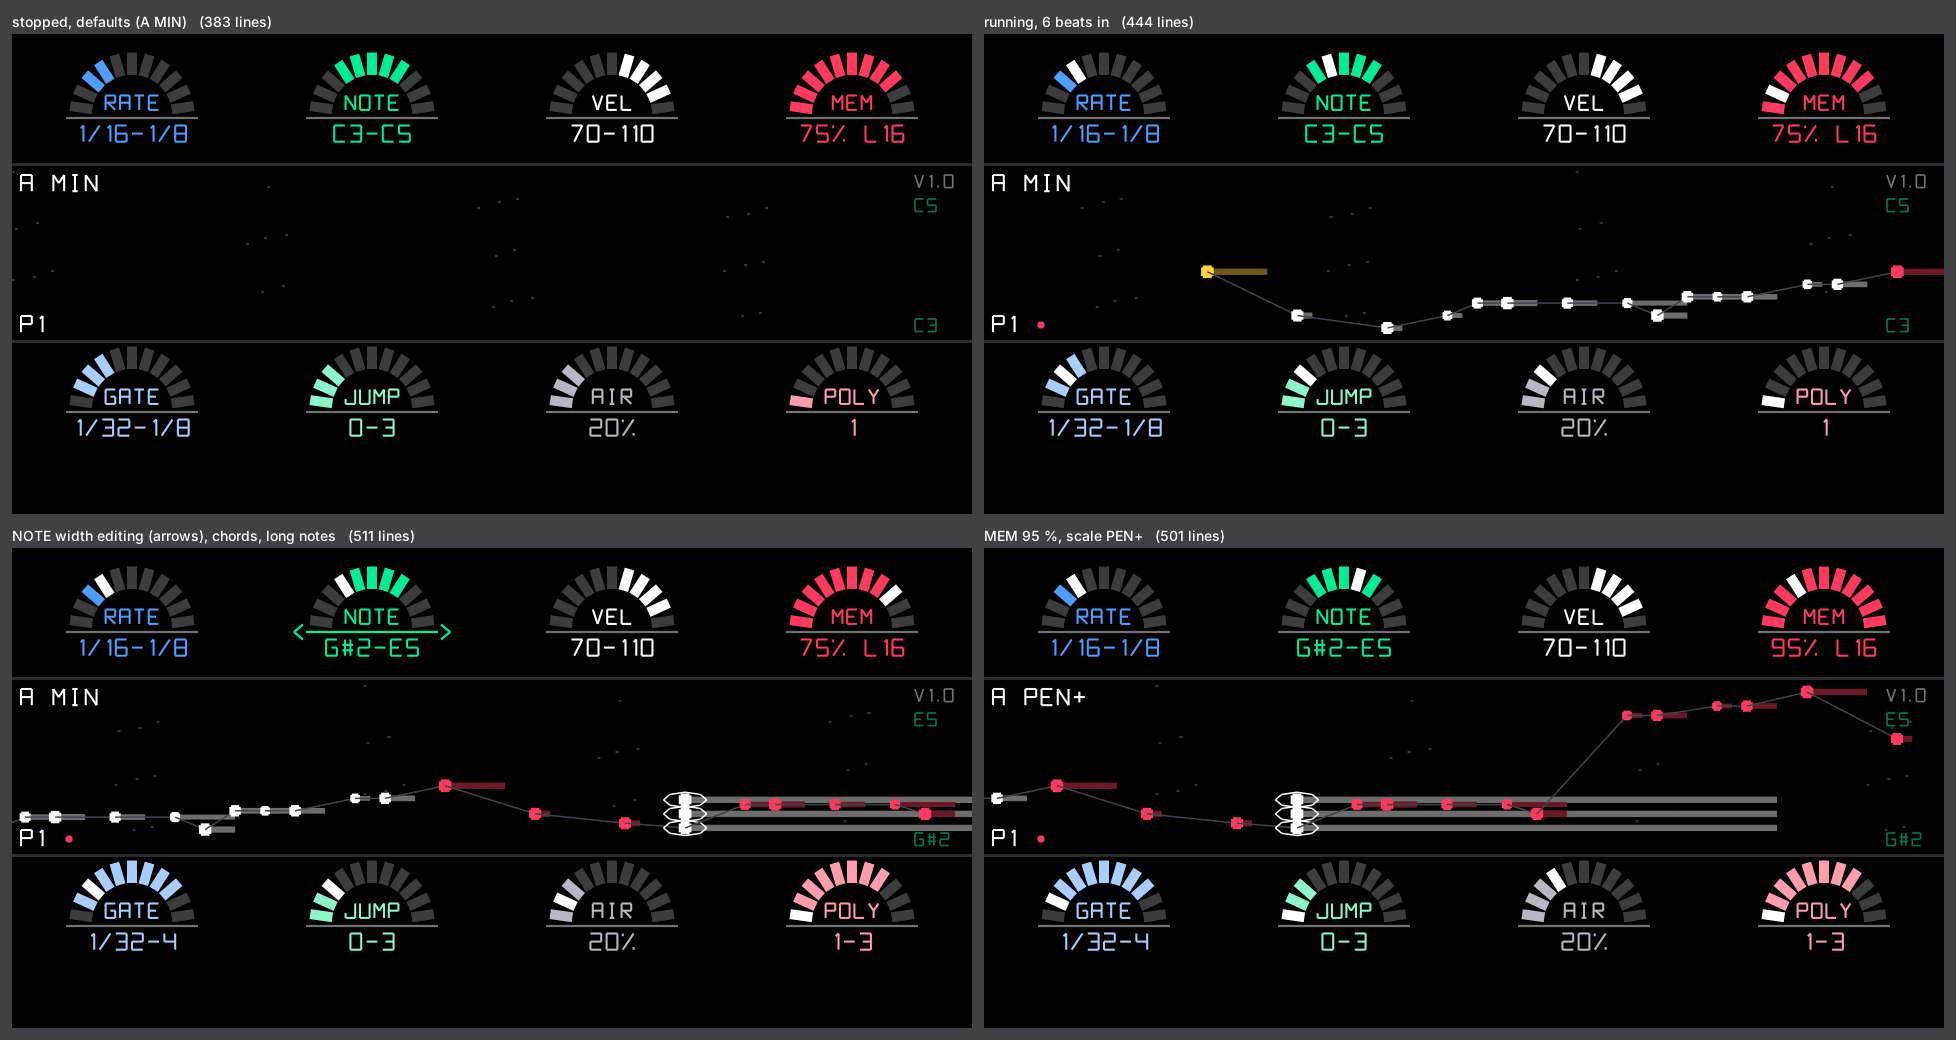
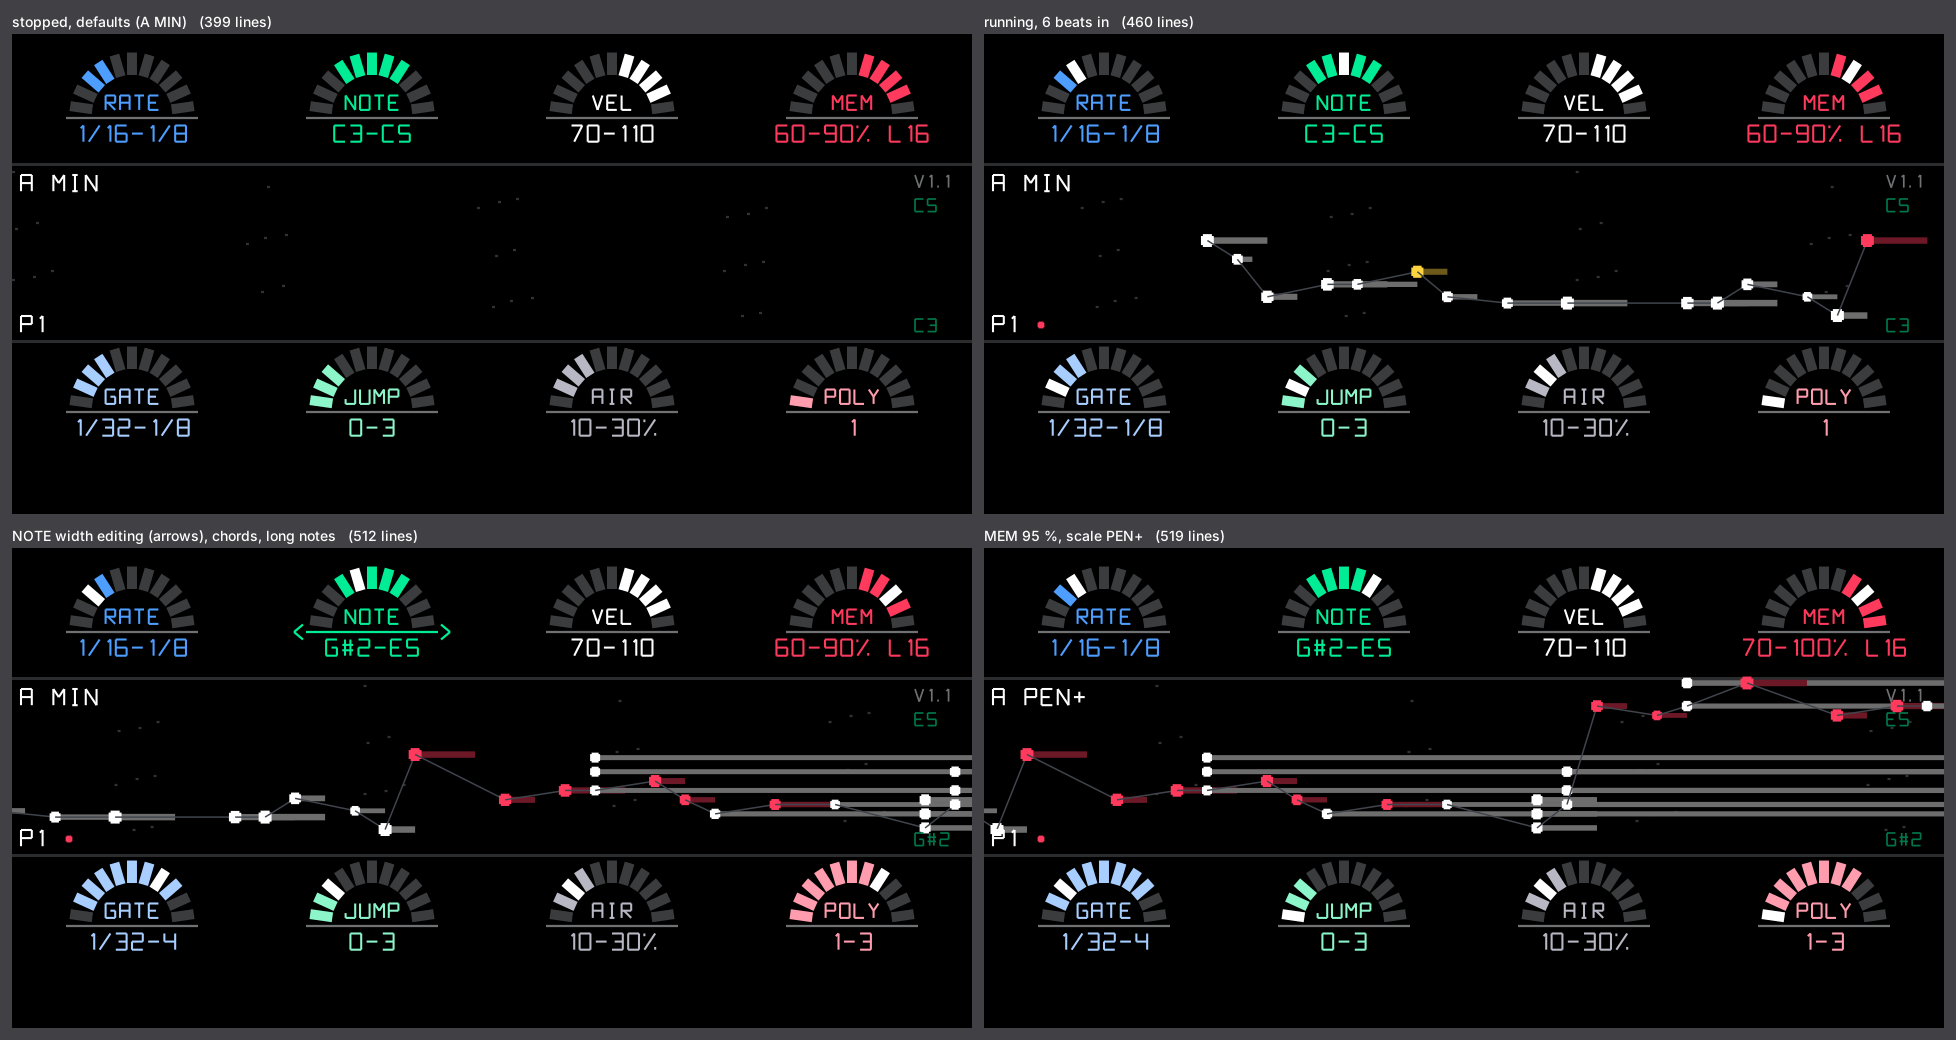
Star-Roll V1.1: AIR and MEM are ranges like the other gauges
The white segment of AIR showed the random number drawn to decide a rest, so it
fell outside the lit part most of the time. AIR and MEM are now ranges of
chances: each note draws its chance inside the range (shown in white, always
inside), then the rest / the memory happens with that chance. Phrase length
moves from the MEM press (now width editing) to Shift + lift. Bundle 0.5.

Claude-Session: https://claude.ai/code/session_013iVWGaSrKktbyAYruktruU

diff --git a/starroll/starroll.c b/starroll/starroll.c
@@ -9,16 +9,16 @@
  *   JUMP  Shift green   leap from one note to the next, in scale steps 0 .. 12 (up or down at random, reflected at the
  *                       edges of the NOTE range): small = walking melodies, large = jumpy
  *   VEL   white         velocity 1 .. 127
- *   AIR   Shift white   chance of a rest, 0 .. 100 % (a single value)
+ *   AIR   Shift white   chance of a rest, 0 .. 100 % (each note draws its chance inside the range)
  *   MEM   red           memory, 0 .. 100 %: the chance that a note repeats the one the phrase had at this place
- *                       (100 % = a loop, 0 % = always new); press: phrase length 4 8 16 32 notes
+ *                       (100 % = a loop, 0 % = always new); each note draws its chance inside the range
  *   POLY  Shift red     notes per hit 1 .. 4 (chords: stacked thirds of the scale)
  * Encoders: turn moves the range (its centre, the "target"); press toggles width editing for that parameter, where the
  * turn makes the range longer / shorter around its centre. Shift + turn / press works on the Shift parameter.
  * Keys on the star-roll screen:
  *   note key        root of the scale (the key also sounds; drum mode: the scale picks the drum pads)
  *   drop            next scale (MAJ MIN DOR PHR PEN+ PEN-); Shift + drop: previous
- *   lift            start / stop
+ *   lift            start / stop; Shift + lift: phrase length of the memory 4 8 16 32 notes
  *   scissors        new phrase: forget the memory
  * Any screen while star-roll is the mode's sequencer: Shift + F G A B pattern 1..4 (all parameters + scale), Shift + C#
  * start / stop (with REC held: also starts the tape).
@@ -30,7 +30,7 @@
 #include "op1_synth.h"
 #include "seq/seq_text.h"
 
-#define SR_VERSION "V1.0"
+#define SR_VERSION "V1.1"
 #define SR_STARS   64                                    /* star field: the last notes played */
 #define SR_ROWS    8
 #define SR_PATS    4
@@ -41,16 +41,16 @@ enum { R_RATE, R_GATE, R_NOTE, R_JUMP, R_VEL, R_AIR, R_MEM, R_POLY };
 #define SR_NLEN    11
 static const uint16_t sr_len[SR_NLEN] = { 6, 12, 24, 48, 96, 192, 384, 768, 1536, 3072, 6144 };   /* ticks: 1/64 .. 16 bars */
 static const char *const sr_len_names[SR_NLEN] = { "1/64", "1/32", "1/16", "1/8", "1/4", "1/2", "1", "2", "4", "8", "16" };
-typedef struct { uint8_t min, max, step, single; uint8_t dlo, dhi; } sr_spec_t;
+typedef struct { uint8_t min, max, step; uint8_t dlo, dhi; } sr_spec_t;
 static const sr_spec_t sr_spec[SR_ROWS] = {
-    { 0, SR_NLEN - 1, 1, 0,  2,  3 },                    /* RATE 1/16 .. 1/8 */
-    { 0, SR_NLEN - 1, 1, 0,  1,  3 },                    /* GATE 1/32 .. 1/8 */
-    { 24, 96, 1, 0, 48, 72 },                            /* NOTE C3 .. C5 */
-    { 0, 12, 1, 0, 0, 3 },                               /* JUMP 0 .. 3 scale steps */
-    { 1, 127, 4, 0, 70, 110 },                           /* VEL */
-    { 0, 100, 5, 1, 0, 20 },                             /* AIR 20 % */
-    { 0, 100, 5, 1, 0, 75 },                             /* MEM 75 % */
-    { 1, 4, 1, 0, 1, 1 } };                              /* POLY 1 */
+    { 0, SR_NLEN - 1, 1,  2,  3 },                    /* RATE 1/16 .. 1/8 */
+    { 0, SR_NLEN - 1, 1,  1,  3 },                    /* GATE 1/32 .. 1/8 */
+    { 24, 96, 1, 48, 72 },                            /* NOTE C3 .. C5 */
+    { 0, 12, 1, 0, 3 },                               /* JUMP 0 .. 3 scale steps */
+    { 1, 127, 4, 70, 110 },                           /* VEL */
+    { 0, 100, 5, 10, 30 },                            /* AIR 10 .. 30 % */
+    { 0, 100, 5, 60, 90 },                            /* MEM 60 .. 90 % */
+    { 1, 4, 1, 1, 1 } };                              /* POLY 1 */
 #define SR_NMODES  6
 static const uint8_t sr_mode_len[SR_NMODES] = { 7, 7, 7, 7, 5, 5 };
 static const uint8_t sr_modes[SR_NMODES][7] = { { 0, 2, 4, 5, 7, 9, 11 }, { 0, 2, 3, 5, 7, 8, 10 }, { 0, 2, 3, 5, 7, 9, 10 },
@@ -60,7 +60,7 @@ static const uint8_t sr_plens[4] = { 4, 8, 16, 32 };
 
 typedef struct { uint8_t lo[SR_ROWS], hi[SR_ROWS]; uint8_t root, mode, plen; } sr_pat_t;   /* saved */
 typedef struct {                                          /* one generated note (event) */
-    uint8_t rate, gate, vel, n, rest, air_r, mem_r, valid;
+    uint8_t rate, gate, vel, n, rest, air_r, mem_r, valid;   /* air_r / mem_r: the chances drawn for this note */
     int16_t deg;                                           /* scale degree (absolute: replays follow the scale) */
     int8_t  jump;                                          /* signed scale steps from the previous note */
 } sr_ev_t;
@@ -188,8 +188,8 @@ static sr_ev_t sr_new(sr_bank_t *b)
     e.gate = (uint8_t)sr_pick(b, p->lo[R_GATE], p->hi[R_GATE]);
     e.vel  = (uint8_t)sr_pick(b, p->lo[R_VEL], p->hi[R_VEL]);
     e.n    = (uint8_t)sr_pick(b, p->lo[R_POLY], p->hi[R_POLY]);
-    e.air_r = (uint8_t)(sr_rand(b) % 100);
-    e.rest = e.air_r < p->hi[R_AIR];
+    e.air_r = (uint8_t)sr_pick(b, p->lo[R_AIR], p->hi[R_AIR]);          /* this note's chance of a rest */
+    e.rest = (int)(sr_rand(b) % 100) < e.air_r;
     int dlo, dhi; sr_deg_range(p, &dlo, &dhi);
     int d;
     if (b->last_deg < 0) { d = sr_pick(b, dlo, dhi); e.jump = 0; }
@@ -215,9 +215,9 @@ static void sr_event(int pos, sr_bank_t *b, uint64_t t)
     int len = sr_plens[p->plen];
     if (b->mpos >= len) b->mpos = 0;
     sr_ev_t *slot = &b->mem[b->mpos];
-    uint8_t mem_r = (uint8_t)(sr_rand(b) % 100);
+    uint8_t mem_r = (uint8_t)sr_pick(b, p->lo[R_MEM], p->hi[R_MEM]);    /* this note's chance of the memory */
     sr_ev_t e;
-    int from_mem = slot->valid && mem_r < p->hi[R_MEM];
+    int from_mem = slot->valid && (int)(sr_rand(b) % 100) < mem_r;
     if (from_mem) e = *slot;
     else { e = sr_new(b); *slot = e; }
     e.mem_r = mem_r;
@@ -271,6 +271,14 @@ int sr_toggle(int pos)                                     /* returns 1 if it st
     sr_start(b); return 1;
 }
 void sr_all_off(int pos) { sr_off_all(pos & 1); }
+void sr_phrase_len(int pos)                                /* Shift + lift: memory phrase 4 8 16 32 notes */
+{
+    sr_bank_t *b = &sr[pos & 1];
+    sr_bank_init(b);
+    sr_pat_t *p = sr_cur(b);
+    p->plen = (uint8_t)((p->plen + 1) % 4);
+    SR_CHANGED();
+}
 void sr_forget(int pos)                                    /* scissors: a new phrase */
 {
     sr_bank_t *b = &sr[pos & 1];
@@ -320,8 +328,7 @@ void sr_press(int pos, int knob, int shift)
     sr_bank_init(b);
     if (knob < 0 || knob > 3) return;
     int r = 2 * knob + (shift != 0);
-    if (r == R_MEM) { sr_pat_t *p = sr_cur(b); p->plen = (uint8_t)((p->plen + 1) % 4); SR_CHANGED(); return; }
-    if (!sr_spec[r].single) b->width[r] ^= 1;
+    b->width[r] ^= 1;
 }
 void sr_turn(int pos, int knob, int delta, int shift)
 {
@@ -337,8 +344,7 @@ void sr_turn(int pos, int knob, int delta, int shift)
     const sr_spec_t *s = &sr_spec[r];
     sr_pat_t *p = sr_cur(b);
     int lo = p->lo[r], hi = p->hi[r], d = st * s->step;
-    if (s->single) hi = sr_clamp(hi + d, s->min, s->max);
-    else if (b->width[r]) {                                /* width around the centre */
+    if (b->width[r]) {                                /* width around the centre */
         int c2 = lo + hi, w = sr_clamp(hi - lo + d, 0, s->max - s->min);
         lo = (c2 - w + (d > 0 ? 0 : 1)) / 2; hi = lo + w;
         if (lo < s->min) { hi += s->min - lo; lo = s->min; }
@@ -400,8 +406,8 @@ int sr_parse(int pos, const char *s, int len)
 
 /* ======================= screen (GUI thread) =======================
  * Top: LED gauges RATE NOTE VEL MEM; bottom: GATE JUMP AIR POLY (the Shift parameters, lighter colours). A gauge is an
- * arc of 11 segments over the parameter's whole scale: lit in the parameter's colour = the range (single values: from
- * zero), white = the value drawn for the latest note (ranges: always inside the range shown); name inside, values
+ * arc of 11 segments over the parameter's whole scale: lit in the parameter's colour = the range, white = the value
+ * drawn for the latest note (always inside the range shown; AIR / MEM: the chance drawn); name inside, values
  * below; width editing: the baseline in colour with arrows at its ends.
  * Middle: the star field, 2 bars wide, scrolling right to left at the tempo: a star per note played, born at the right
  * edge when it sounds. Height = pitch inside the NOTE range of that moment (it keeps it when the range changes later);
@@ -449,8 +455,9 @@ static void sr_value_text(char *t, const sr_bank_t *b, int r)
     case R_RATE: case R_GATE:
         o = sq_cat(o, sr_len_names[lo]); if (hi != lo) { o = sq_cat(o, "-"); o = sq_cat(o, sr_len_names[hi]); } break;
     case R_NOTE: o = sr_note_name(o, lo); if (hi != lo) { o = sq_cat(o, "-"); o = sr_note_name(o, hi); } break;
-    case R_AIR:  o = sq_cat(sq_num(o, (uint32_t)hi, 0), "%"); break;
-    case R_MEM:  o = sq_cat(sq_num(o, (uint32_t)hi, 0), "% L"); o = sq_num(o, sr_plens[p->plen], 0); break;
+    case R_AIR:  o = sq_num(o, (uint32_t)lo, 0); if (hi != lo) { o = sq_cat(o, "-"); o = sq_num(o, (uint32_t)hi, 0); } sq_cat(o, "%"); break;
+    case R_MEM:  o = sq_num(o, (uint32_t)lo, 0); if (hi != lo) { o = sq_cat(o, "-"); o = sq_num(o, (uint32_t)hi, 0); }
+                 o = sq_cat(o, "% L"); o = sq_num(o, sr_plens[p->plen], 0); break;
     default:     o = sq_num(o, (uint32_t)lo, 0); if (hi != lo) { o = sq_cat(o, "-"); o = sq_num(o, (uint32_t)hi, 0); }
     }
 }
@@ -499,12 +506,12 @@ static void sr_screen_update(void *scr, int dt, int pos)
     for (int k = 0; k < SR_ROWS; k++) {
         int row = (k % 4) * 2 + k / 4;                     /* k 0..3 top (normal), 4..7 bottom (Shift) */
         const sr_spec_t *s = &sr_spec[row];
-        int lo = s->single ? s->min : p->lo[row], hi = p->hi[row];
+        int lo = p->lo[row], hi = p->hi[row];
         int32_t last = -1;
-        if (e->valid) last = sr_norm(row, s->single ? sr_clamp(lastv[row], s->min, s->max) : sr_clamp(lastv[row], lo, hi));
+        if (e->valid) last = sr_norm(row, sr_clamp(lastv[row], lo, hi));      /* always inside the range shown */
         sr_value_text(t, b, row);
         sr_gauge(r, 40 + (k % 4) * 80, k < 4 ? 27 : 125, row, sr_norm(row, lo), sr_norm(row, hi), last,
-                 !s->single && b->width[row], t);
+                 b->width[row], t);
     }
 
     /* ---- star field ---- */
@@ -616,7 +623,7 @@ const op1_screen_t SCREEN_starroll = { sr_screen_init, sr_scr_update };
 /* plugin interface (docs/44): lift start / stop, drop scale (Shift: back), scissors new phrase, presses, turns */
 static int sr_pkey(int m, int code, int pressed, int knob, int shift)
 {
-    if (code == 0x0A) { if (pressed) sr_toggle(m); return 1; }
+    if (code == 0x0A) { if (pressed) { if (shift) sr_phrase_len(m); else sr_toggle(m); } return 1; }
     if (code == 0x0B) { if (pressed) sr_scale_step(m, shift ? -1 : 1); return 1; }
     if (code == 0x0C) { if (pressed) sr_forget(m); return 1; }
     if (knob >= 0) { if (pressed) sr_press(m, knob, shift); return 1; }

diff --git a/starroll/test/starroll_test.c b/starroll/test/starroll_test.c
@@ -101,11 +101,28 @@ int main(int argc, char **argv)
         sr_toggle(0);
     }
     /* AIR 100: no notes but the clock goes on; AIR 0: no rests */
-    { fresh(0); set(0, R_AIR, 0, 100); sr_toggle(0); run(0, BEAT * 4);
+    { fresh(0); set(0, R_AIR, 100, 100); sr_toggle(0); run(0, BEAT * 4);
       CHECK(n_on[0] == 0 && sr[0].count > 4, "AIR 100: %d notes, %u events", n_on[0], sr[0].count); sr_toggle(0); }
+    /* AIR / MEM are ranges: the chance drawn for each note stays inside them (the gauges' white segment); AIR 40..40
+     * gives ~40 % rests */
+    {
+        fresh(0); set(0, R_AIR, 10, 30); set(0, R_MEM, 60, 90); sr_toggle(0);
+        int ok = 1;
+        for (int i = 0; i < 400; i++) {
+            run(0, 2048);
+            const sr_ev_t *e = &sr[0].shown;
+            if (e->valid) ok &= e->air_r >= 10 && e->air_r <= 30 && e->mem_r >= 60 && e->mem_r <= 90;
+        }
+        CHECK(ok, "AIR / MEM chances drawn outside their ranges");
+        sr_toggle(0);
+        fresh(0); set(0, R_AIR, 40, 40); set(0, R_MEM, 0, 0); set(0, R_RATE, 2, 2); sr_toggle(0); run(0, BEAT * 64);
+        double rests = 1.0 - (double)n_on[0] / sr[0].count;
+        CHECK(rests > 0.3 && rests < 0.5, "AIR 40 %%: %.0f %% rests", rests * 100);
+        sr_toggle(0);
+    }
     /* MEM 100: the phrase loops with its length; MEM 0: keeps drawing */
     {
-        fresh(0); set(0, R_AIR, 0, 0); set(0, R_MEM, 0, 100); set(0, R_RATE, 2, 2); set(0, R_JUMP, 0, 7);
+        fresh(0); set(0, R_AIR, 0, 0); set(0, R_MEM, 100, 100); set(0, R_RATE, 2, 2); set(0, R_JUMP, 0, 7);
         sr_cur(&sr[0])->plen = 0;                     /* 4 notes */
         sr_toggle(0); run(0, BEAT * 8 - 64);
         int loop = nseq >= 24; for (int i = 4; i < nseq; i++) loop &= seq[i] == seq[i - 4];
@@ -150,8 +167,11 @@ int main(int argc, char **argv)
         sr_turn(0, 1, -100 * 1024, 0);
         CHECK(p->lo[R_NOTE] == p->hi[R_NOTE], "width 0");
         sr_turn(0, 2, 3 * 1024, 1);                         /* Shift + white: AIR 20 -> 35 */
-        CHECK(p->hi[R_AIR] == 35, "AIR %d", p->hi[R_AIR]);
-        sr_press(0, 3, 0); CHECK(p->plen == 3 && sr_plens[p->plen] == 32, "MEM press: phrase 32");
+        CHECK(p->lo[R_AIR] == 25 && p->hi[R_AIR] == 45, "AIR %d..%d", p->lo[R_AIR], p->hi[R_AIR]);
+        sr_press(0, 3, 0); sr_turn(0, 3, 2 * 1024, 0);      /* MEM is a range too: width 30 -> 40 */
+        CHECK(p->hi[R_MEM] - p->lo[R_MEM] == 40, "MEM width %d..%d", p->lo[R_MEM], p->hi[R_MEM]);
+        sr_press(0, 3, 0);
+        sr_phrase_len(0); CHECK(p->plen == 3 && sr_plens[p->plen] == 32, "Shift + lift: phrase 32");
         sr_turn(0, 0, 2 * 1024, 1);                         /* Shift + blue: GATE moves */
         CHECK(p->lo[R_GATE] == 3 && p->hi[R_GATE] == 5, "GATE %d..%d", p->lo[R_GATE], p->hi[R_GATE]);
         sr_root(0, 62); sr_scale_step(0, 1);
@@ -177,7 +197,7 @@ int main(int argc, char **argv)
     }
     /* stars: one per note played, height from the NOTE range, flags */
     {
-        fresh(0); set(0, R_AIR, 0, 0); set(0, R_POLY, 1, 3); set(0, R_MEM, 0, 50); set(0, R_RATE, 3, 3); sr_cur(&sr[0])->plen = 0;
+        fresh(0); set(0, R_AIR, 0, 0); set(0, R_POLY, 1, 3); set(0, R_MEM, 50, 50); set(0, R_RATE, 3, 3); sr_cur(&sr[0])->plen = 0;
         sr_toggle(0); run(0, BEAT * 4 - 64);
         int want = n_on[0] < SR_STARS ? n_on[0] : SR_STARS;
         CHECK(sr[0].star_used == want, "stars %d, note-ons %d", sr[0].star_used, n_on[0]);

diff --git a/starroll/README.md b/starroll/README.md
@@ -11,7 +11,7 @@ field** that scrolls from right to left: one star for every note played, a piano
 | RATE | blue | time to the next note, 1/64 .. 16 bars |
 | NOTE | green | pitch range C1 .. C7, taken from the scale |
 | VEL | white | velocity 1 .. 127 |
-| MEM | red | memory: chance that a note repeats the phrase (100 % = a loop, 0 % = always new); press: phrase 4 / 8 / 16 / 32 |
+| MEM | red | memory: chance that a note repeats the phrase (100 % = a loop, 0 % = always new) |
 | GATE | Shift + blue | note length, 1/64 .. 16 bars |
 | JUMP | Shift + green | leap from one note to the next, 0 .. 12 scale steps (up or down; reflected at the range edges) |
 | AIR | Shift + white | chance of a rest, 0 .. 100 % |
@@ -20,7 +20,8 @@ field** that scrolls from right to left: one star for every note played, a piano
 **Turn** an encoder to move the range (its centre, the target). **Press** it to edit the width (the gauge's baseline
 lights up with `< >`): turning then makes the range longer or shorter around its centre. With Shift held, turn /
 press work on the Shift gauge. On a gauge, the lit segments are the range and the white one is the value drawn for
-the latest note (always inside the range shown).
+the latest note (always inside the range shown). AIR and MEM are ranges of chances too: each note draws its chance
+of a rest / of the memory inside the range (that is the white segment); whether it happened shows in the star field.
 
 ## Star field
 - one star per note, born at the right edge when it sounds; the field shows the last 2 bars
@@ -36,6 +37,7 @@ the latest note (always inside the range shown).
 | note key | root of the scale (drum mode: the scale picks the pads) |
 | drop / Shift + drop | next / previous scale: MAJ MIN DOR PHR PEN+ PEN- |
 | lift | start / stop |
+| Shift + lift | phrase length of the memory: 4 / 8 / 16 / 32 notes |
 | scissors | new phrase (forget the memory) |
 
 Any screen while star-roll is the sequencer: Shift + F G A B = pattern 1–4 (all parameters + scale), Shift + C# =

diff --git a/README.md b/README.md
@@ -71,6 +71,7 @@ byte-identical) plus every plugin in `release/`:
 |---|---|
 | 0.3 | monolith (2001 screen), Track Racer V1.2, Leapfrog V1.0 |
 | 0.4 | monolith, Track Racer V1.2, Star-Roll V1.0 (replaces Leapfrog) |
+| 0.5 | Star-Roll V1.1: AIR and MEM are ranges like the others; phrase length on Shift + lift |
 
 ## Installing on the OP-1
 
